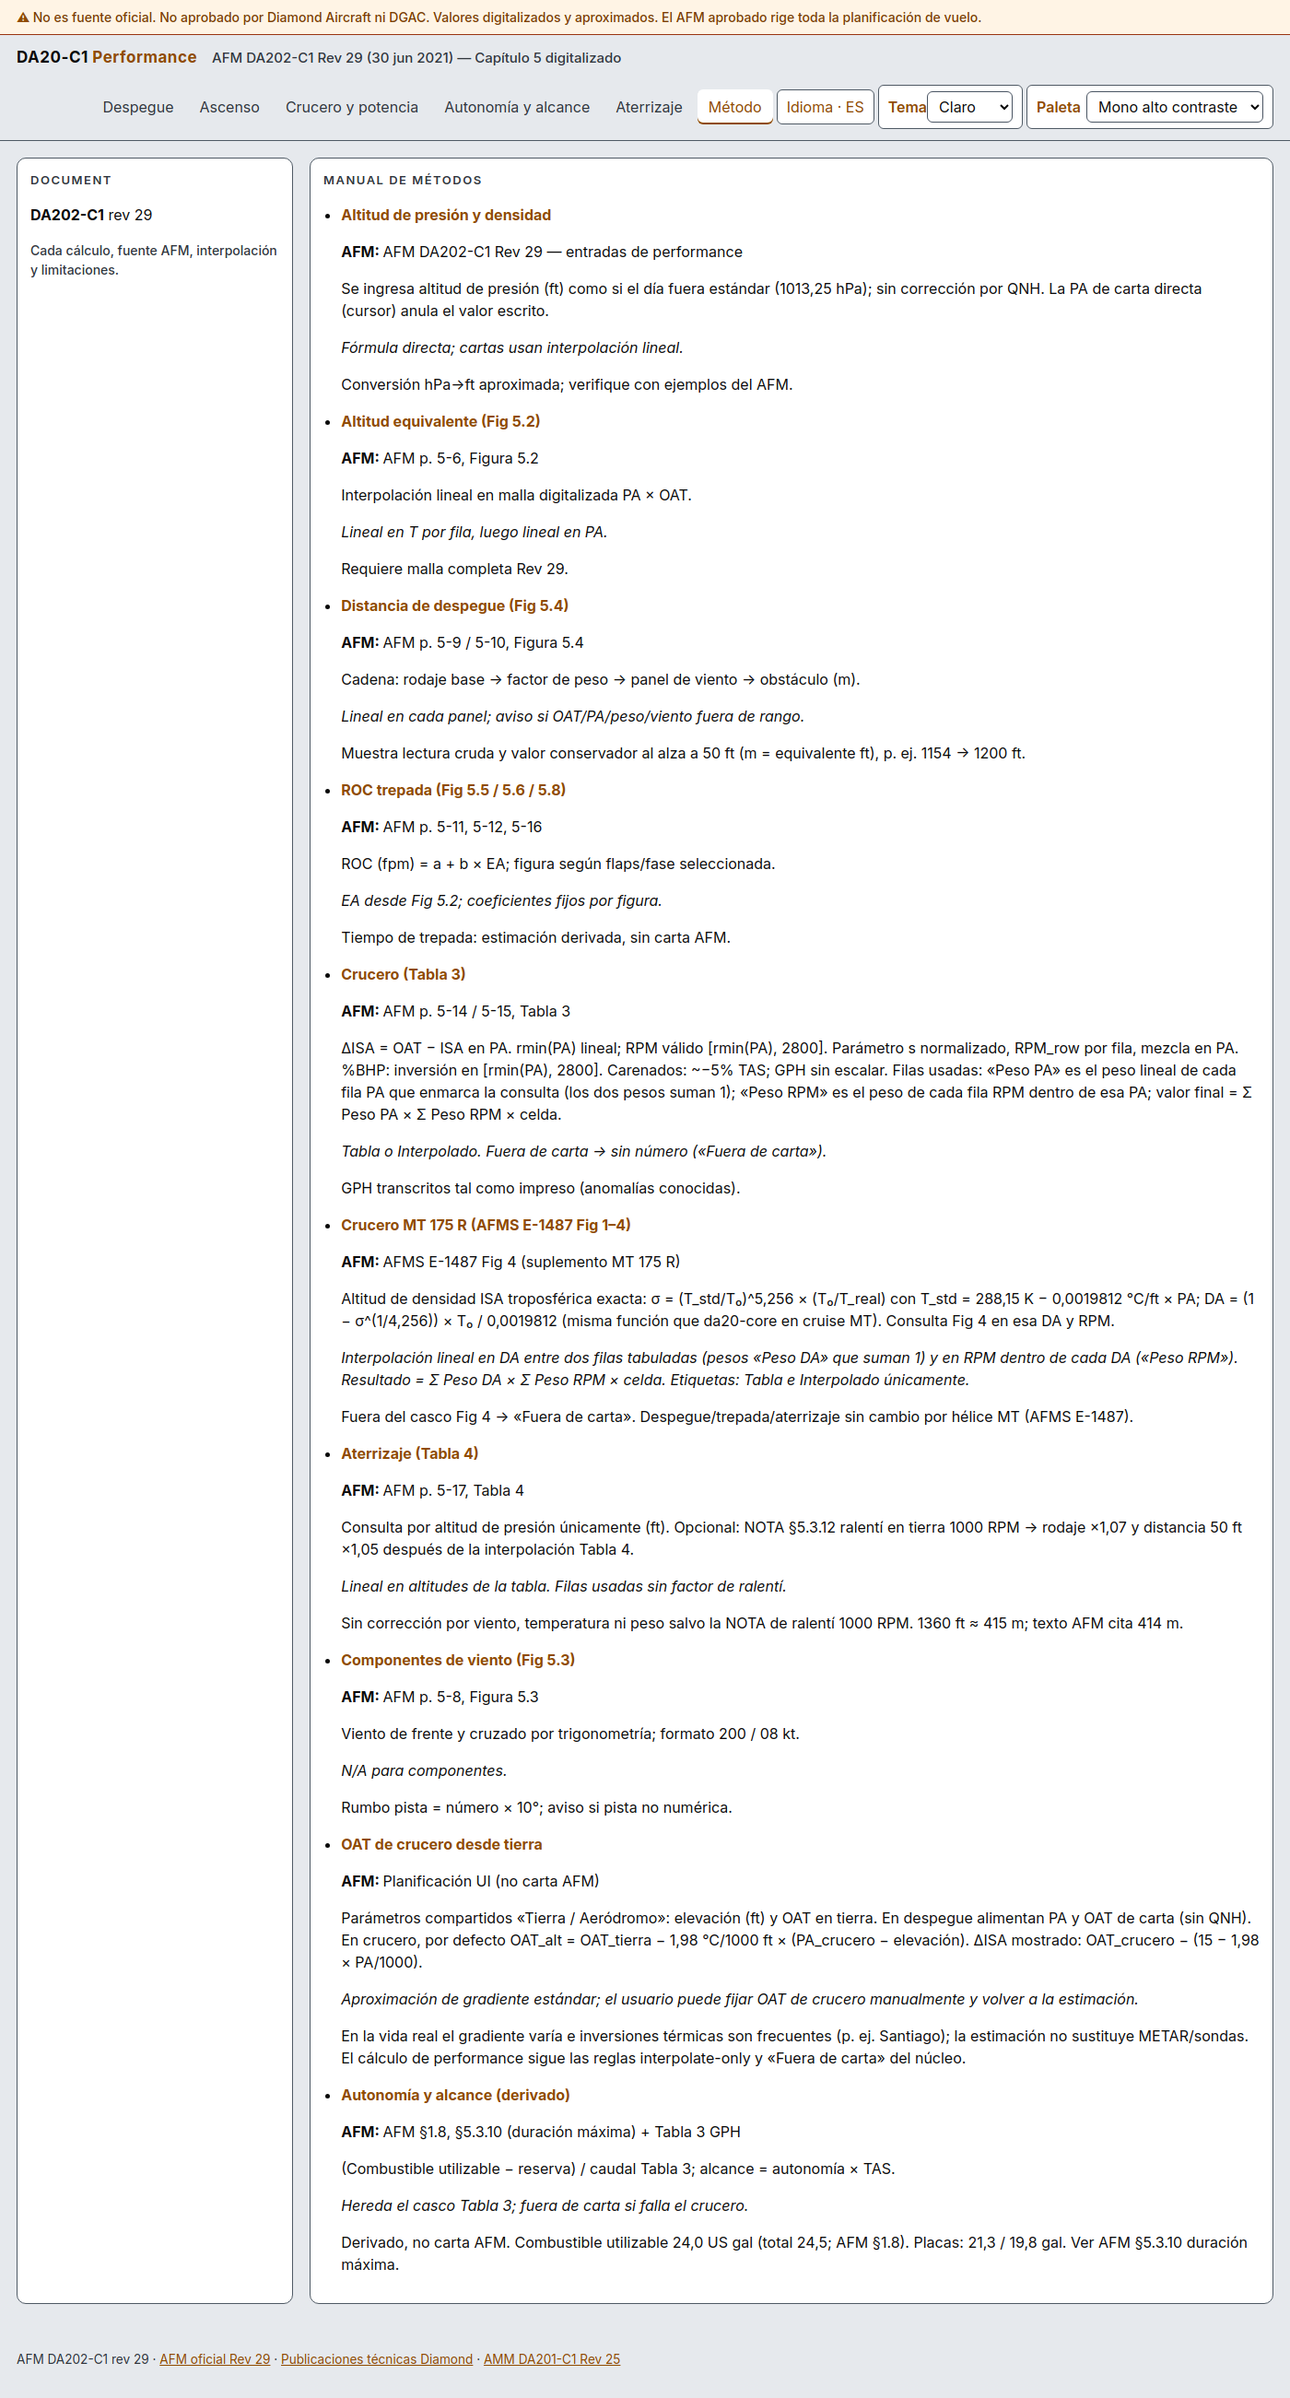
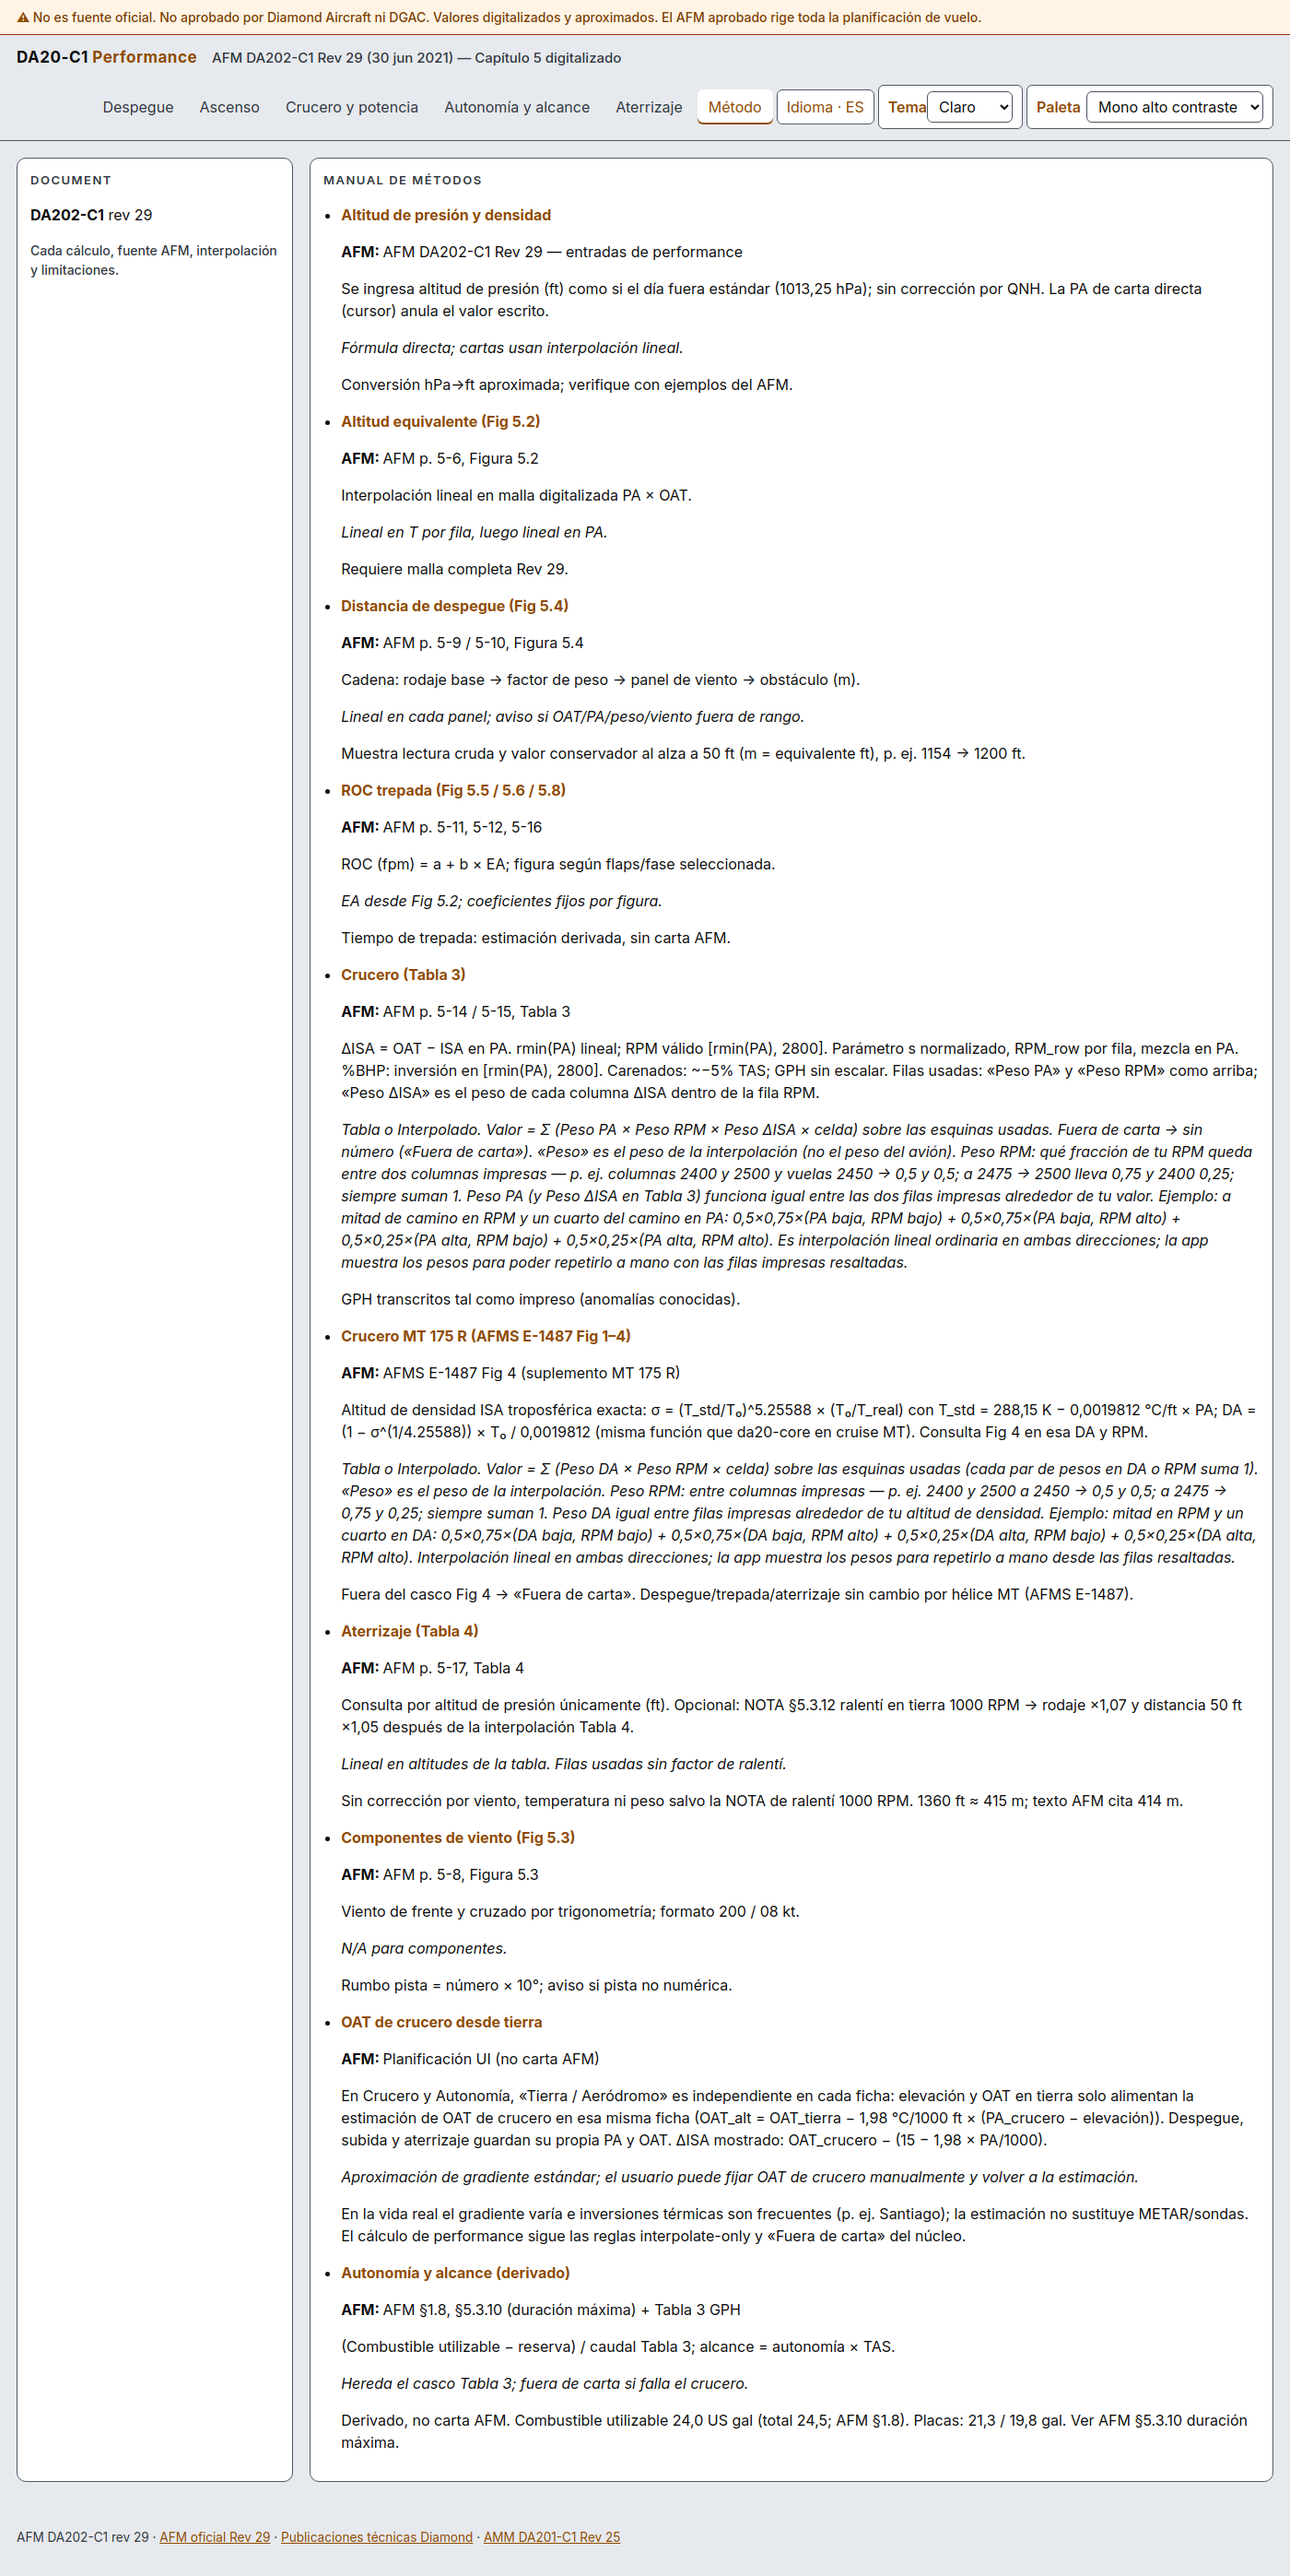
Fix screenshot pipeline and enforce phase chrome in source
Root cause of a644ff3 PNG mismatch: Playwright used http://127.0.0.1:8080/8081
where a stale prebuilt static server served an old WASM bundle (missing i18n
and UI changes). Fresh dist on :18081 matches current source.

- WheelFairingToggleWhen gated by phase_shows_wheel_fairing_toggle
- Landing airfield hides OAT; tests for method ES copy and runway visibility
- Screenshot script: assert WASM strings, DOM checks, default landing idle, port 18081
- Retake all after_* PNGs from clean trunk build

Changed region(s): [[0.0, 0.0, 0.9829, 0.9962], [0.0307, 0.965, 0.0614, 0.9962]]

diff --git a/crates/da20-ui/src/phases.rs b/crates/da20-ui/src/phases.rs
@@ -78,7 +78,7 @@ pub fn PhaseShell(
                             });
                         }/>
                     <ClimbFlapToggle locale=locale inputs=inputs data=data flight_prefs=flight_prefs/>
-                    <SharedWheelFairingToggle locale=locale inputs=inputs flight_prefs=flight_prefs/>
+                    <WheelFairingToggleWhen phase=Phase::Climb locale=locale inputs=inputs flight_prefs=flight_prefs/>
                     {move || {
                         let c = copy(locale.get());
                         (!inputs.get().wheel_fairings_installed).then(|| view! {
@@ -90,14 +90,14 @@ pub fn PhaseShell(
             Phase::Cruise => view! {
                 <PhaseGrid locale=locale inputs=inputs data=data store=store phase=Phase::Cruise airfield=false flight_prefs=flight_prefs ground_inputs=true>
                     <SharedPropellerSelector locale=locale inputs=inputs flight_prefs=flight_prefs/>
-                    <SharedWheelFairingToggle locale=locale inputs=inputs flight_prefs=flight_prefs/>
+                    <WheelFairingToggleWhen phase=Phase::Cruise locale=locale inputs=inputs flight_prefs=flight_prefs/>
                     <CruiseInputs editor_phase=Phase::Cruise locale=locale inputs=inputs flight_prefs=flight_prefs/>
                 </PhaseGrid>
             }.into_any(),
             Phase::Endurance => view! {
                 <PhaseGrid locale=locale inputs=inputs data=data store=store phase=Phase::Endurance airfield=false flight_prefs=flight_prefs ground_inputs=true>
                     <SharedPropellerSelector locale=locale inputs=inputs flight_prefs=flight_prefs/>
-                    <SharedWheelFairingToggle locale=locale inputs=inputs flight_prefs=flight_prefs/>
+                    <WheelFairingToggleWhen phase=Phase::Endurance locale=locale inputs=inputs flight_prefs=flight_prefs/>
                     <CruiseInputs editor_phase=Phase::Endurance locale=locale inputs=inputs flight_prefs=flight_prefs/>
                     <NumField label=move || copy(locale.get()).fuel_usable.to_string()
                         get=move || inputs.get().fuel_usable_us_gal
@@ -768,6 +768,28 @@ pub(crate) fn phase_shows_wheel_fairing_toggle(phase: Phase) -> bool {
     matches!(phase, Phase::Climb | Phase::Cruise | Phase::Endurance)
 }
 
+/// Phases that show runway / wind fields in `SharedAirfieldInputs` (takeoff only).
+pub(crate) fn phase_shows_airfield_runway_wind(phase: Phase) -> bool {
+    matches!(phase, Phase::Takeoff)
+}
+
+#[component]
+fn WheelFairingToggleWhen(
+    phase: Phase,
+    locale: RwSignal<Locale>,
+    inputs: RwSignal<FlightInputs>,
+    flight_prefs: RwSignal<FlightPrefs>,
+) -> impl IntoView {
+    if phase_shows_wheel_fairing_toggle(phase) {
+        view! {
+            <SharedWheelFairingToggle locale=locale inputs=inputs flight_prefs=flight_prefs/>
+        }
+        .into_any()
+    } else {
+        ().into_any()
+    }
+}
+
 /// Phases that render `SharedPropellerSelector` (MT supplement applies to cruise/endurance only).
 pub(crate) fn phase_shows_propeller_selector(phase: Phase) -> bool {
     matches!(phase, Phase::Cruise | Phase::Endurance)
@@ -795,5 +817,12 @@ mod phase_chrome_tests {
         assert!(phase_shows_wheel_fairing_toggle(Phase::Endurance));
         assert!(!phase_shows_wheel_fairing_toggle(Phase::Landing));
         assert!(!phase_shows_wheel_fairing_toggle(Phase::Manual));
+    }
+
+    #[test]
+    fn runway_wind_airfield_only_on_takeoff() {
+        assert!(phase_shows_airfield_runway_wind(Phase::Takeoff));
+        assert!(!phase_shows_airfield_runway_wind(Phase::Landing));
+        assert!(!phase_shows_airfield_runway_wind(Phase::Climb));
     }
 }

diff --git a/crates/da20-ui/src/inputs.rs b/crates/da20-ui/src/inputs.rs
@@ -313,6 +313,7 @@ pub fn SharedAirfieldInputs(
                     ),
                 },
             };
+            let show_oat = !matches!(mode, AirfieldInputsMode::Landing);
             view! {
                 {(!hide_pa_oat).then(|| view! {
                     <NumField label=move || c.pressure_altitude_ft.to_string()
@@ -337,18 +338,20 @@ pub fn SharedAirfieldInputs(
                                 }
                             });
                         }/>
-                    <NumField label=move || c.oat.to_string()
-                        min=oat_min
-                        max=oat_max
-                        get=move || inputs.get().oat_c
-                        set=move |v| {
-                            flight_prefs.update(|p| {
-                                inputs.update(|i| shared_airfield_set_oat_c(mode, p, i, v));
-                                if shared_airfield_writes_tab_prefs(mode) {
-                                    p.save();
-                                }
-                            });
-                        }/>
+                    {show_oat.then(|| view! {
+                        <NumField label=move || c.oat.to_string()
+                            min=oat_min
+                            max=oat_max
+                            get=move || inputs.get().oat_c
+                            set=move |v| {
+                                flight_prefs.update(|p| {
+                                    inputs.update(|i| shared_airfield_set_oat_c(mode, p, i, v));
+                                    if shared_airfield_writes_tab_prefs(mode) {
+                                        p.save();
+                                    }
+                                });
+                            }/>
+                    })}
                 })}
                 {(mode == AirfieldInputsMode::Takeoff).then(|| {
                     view! {

diff --git a/crates/da20-ui/src/i18n.rs b/crates/da20-ui/src/i18n.rs
@@ -1323,4 +1323,41 @@ mod i18n_display_tests {
         assert_ne!(TO, UP);
         assert_ne!(UP, LDG);
     }
+
+    #[test]
+    fn method_es_table3_interpolation_worked_weights_and_delta_isa_sigma() {
+        let entry = ES_METHODS
+            .iter()
+            .find(|m| m.title.starts_with("Crucero (Tabla 3)"))
+            .expect("Tabla 3");
+        assert!(
+            entry.interpolation.contains("Peso ΔISA"),
+            "must name ΔISA weight inside Σ product"
+        );
+        assert!(entry.interpolation.contains("2400"));
+        assert!(entry.interpolation.contains("0,5"));
+        assert!(entry.interpolation.contains("0,75"));
+        assert!(!entry.interpolation.contains("Σ Peso PA × Σ Peso RPM"));
+    }
+
+    #[test]
+    fn method_es_mt_density_formula_shows_5_25588() {
+        let entry = ES_METHODS
+            .iter()
+            .find(|m| m.title.contains("MT 175"))
+            .expect("MT");
+        assert!(entry.summary.contains("5.25588"));
+        assert!(!entry.summary.contains("5,256"));
+    }
+
+    #[test]
+    fn method_es_cruise_ground_not_shared_with_takeoff_wording() {
+        let entry = ES_METHODS
+            .iter()
+            .find(|m| m.title.contains("OAT de crucero"))
+            .expect("ground OAT");
+        assert!(!entry.summary.contains("Parámetros compartidos"));
+        assert!(!entry.summary.contains("En despegue alimentan"));
+        assert!(entry.summary.contains("independiente en cada ficha"));
+    }
 }
